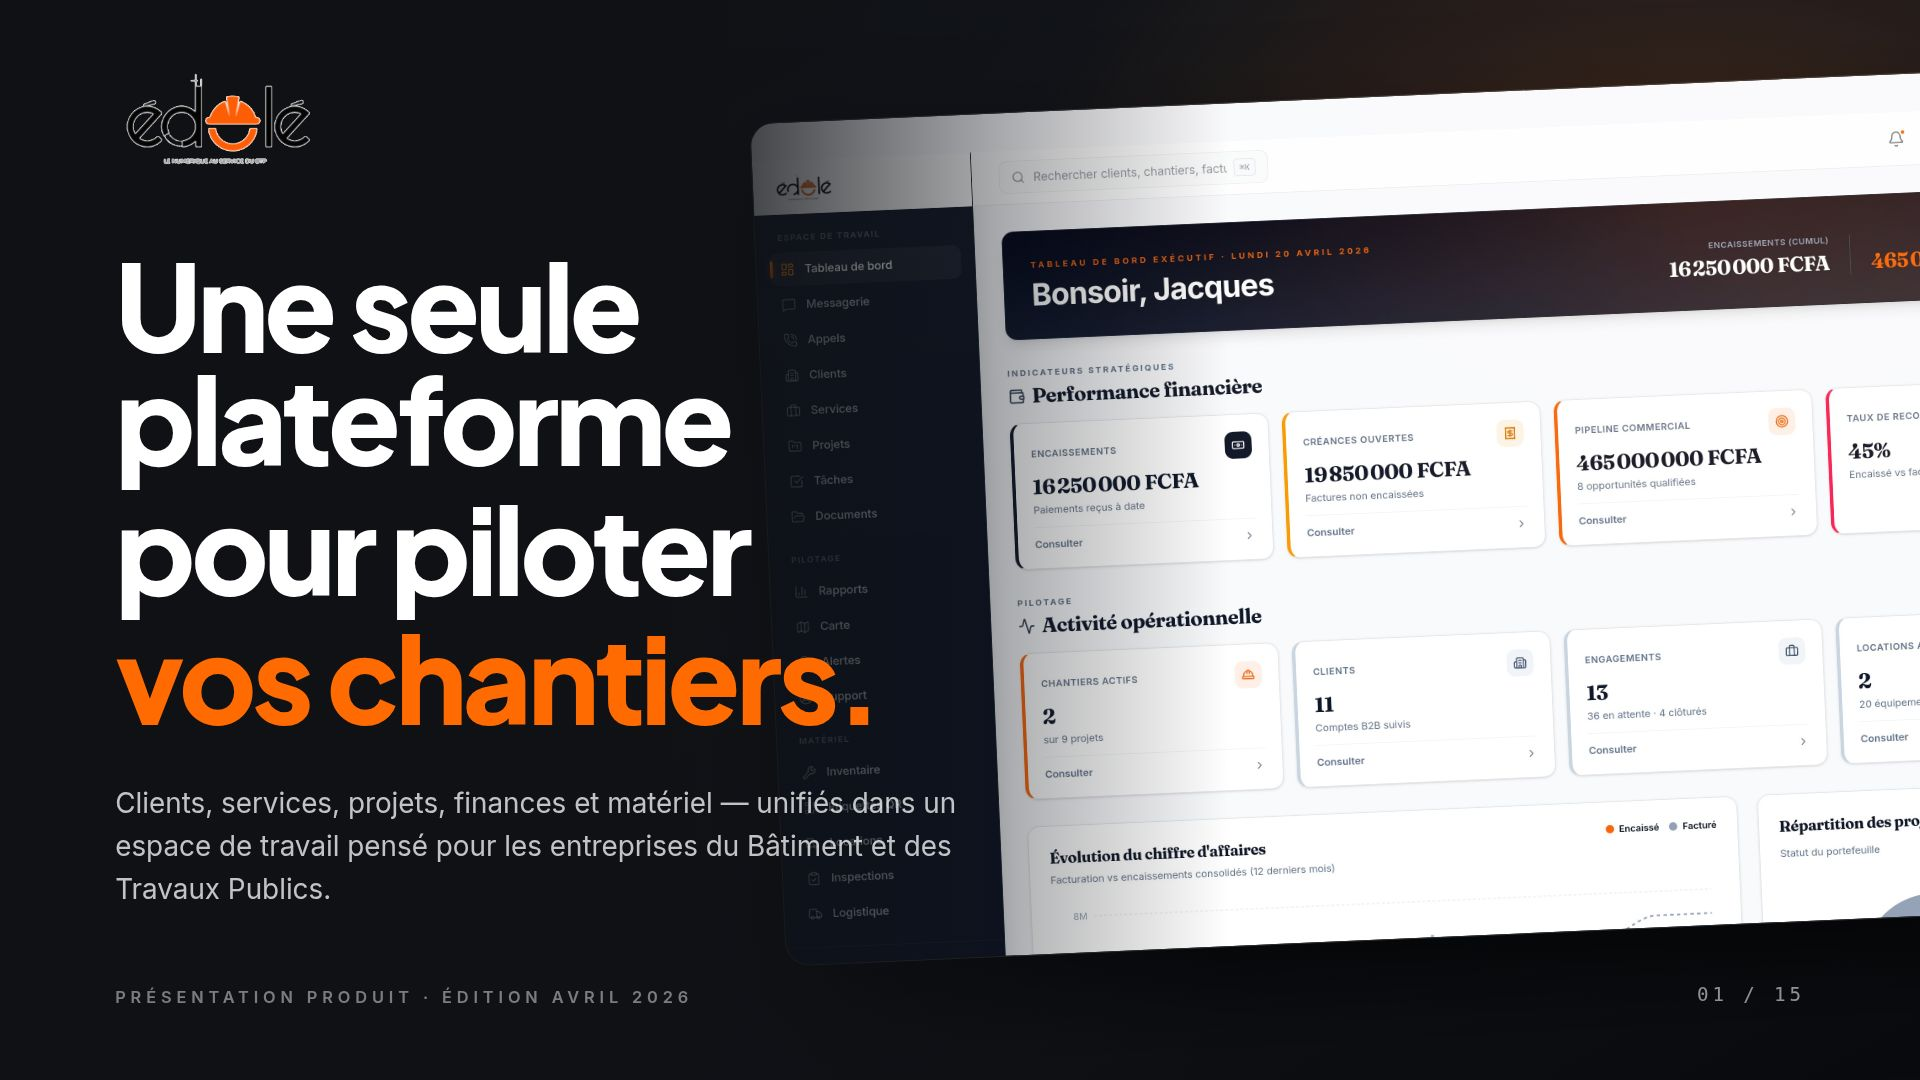
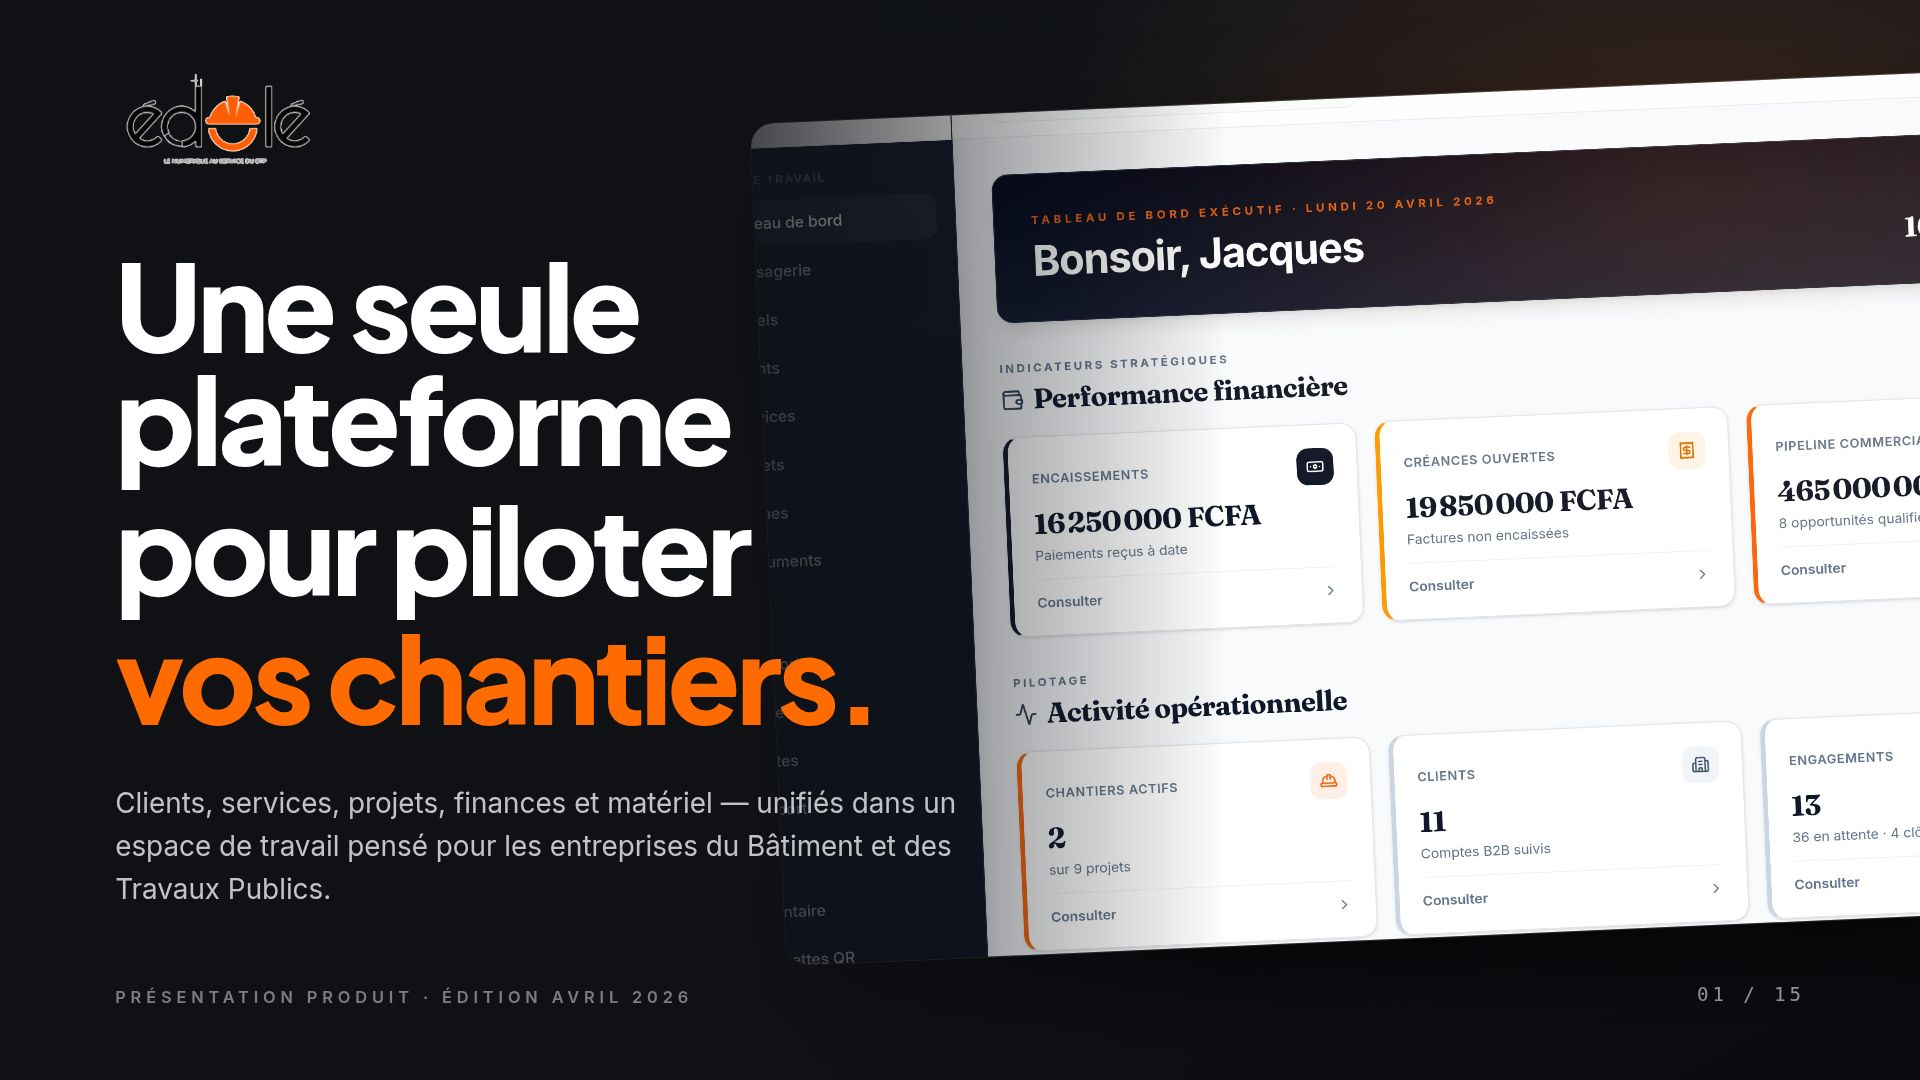
Adjust dashboard display for better visual clarity on the cover slide
Update Cover.tsx to refine image rendering and positioning, specifically adjusting the `object-fit` and `object-position` properties of the dashboard image to achieve a zoomed-in view of KPI cards. Also modified a related thumbnail image.

Replit-Commit-Author: Agent
Replit-Commit-Session-Id: 0fe4b560-6920-479c-8f02-3e89cd6860fd
Replit-Commit-Checkpoint-Type: full_checkpoint
Replit-Commit-Event-Id: 6f9d4b2d-4a3f-46d4-84b2-ddaed0984b01
Replit-Commit-Screenshot-Url: https://storage.googleapis.com/screenshot-production-us-central1/e4b53c06-2d4f-4f47-bb45-4e63eedb9f87/0fe4b560-6920-479c-8f02-3e89cd6860fd/kYDlnV4
Replit-Helium-Checkpoint-Created: true

diff --git a/artifacts/edole-deck/src/pages/slides/Cover.tsx b/artifacts/edole-deck/src/pages/slides/Cover.tsx
@@ -5,12 +5,13 @@ export default function Cover() {
   return (
     <div className="w-screen h-screen overflow-hidden relative bg-[#0F1115] text-white">
       <div className="absolute inset-0 bg-gradient-to-br from-[#0F1115] via-[#13161c] to-[#0A0B0E]" />
-      <div className="absolute right-[-4vw] top-[9vh] w-[64vw] h-[78vh] rounded-[1.2vw] overflow-hidden ring-1 ring-white/15 shadow-[0_40px_100px_rgba(0,0,0,0.65)] rotate-[-2.5deg]">
+      <div className="absolute right-[-4vw] top-[9vh] w-[64vw] h-[78vh] rounded-[1.2vw] overflow-hidden ring-1 ring-white/15 shadow-[0_40px_100px_rgba(0,0,0,0.65)] rotate-[-2.5deg] bg-[#0F1115]">
         <img
           src={hero}
           crossOrigin="anonymous"
-          className="w-full h-full object-cover object-left-top"
-          alt="Tableau de bord EDOLE"
+          className="absolute h-auto w-[150%] max-w-none left-[-8%] top-[-12%]"
+          style={{ objectFit: "cover" }}
+          alt="Tableau de bord EDOLE — Indicateurs financiers et opérationnels"
         />
       </div>
 
